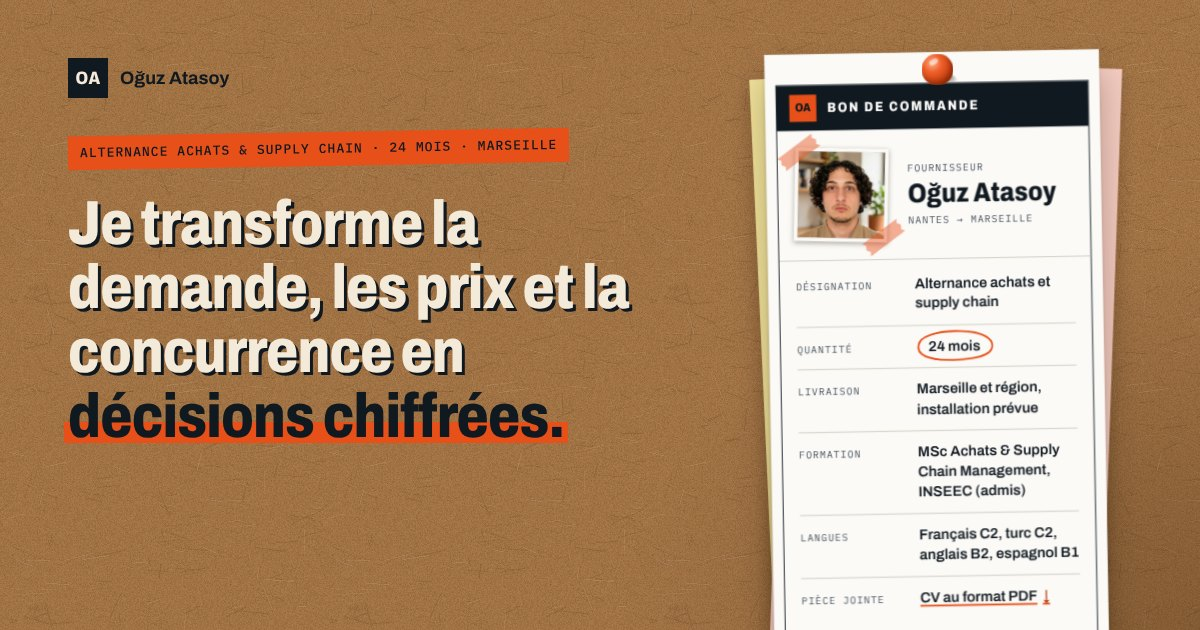
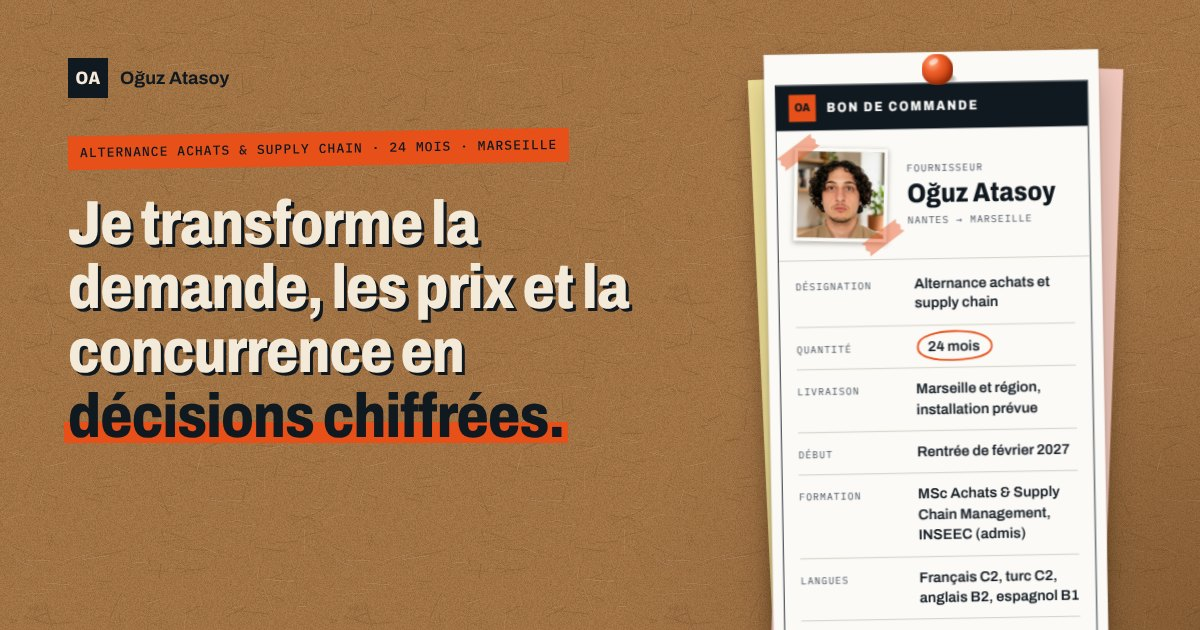
Bon de commande : rentrée février 2027, pièces jointes (CV et démo Revvvue), chiffres du hero en crème
- Nouvelle ligne « Début » (rentrée de février 2027) et ligne « Pièces jointes » avec lien vers la démo Revvvue
- Chiffres clés du hero en crème avec ombre encre pour plus de lisibilité
- Le doublon lu par les lecteurs d'écran n'est plus copié avec le texte

Claude-Session: https://claude.ai/code/session_01Jp4rFjE1dn3Db2iNxFXbt8

diff --git a/css/style.css b/css/style.css
@@ -36,7 +36,7 @@ a{color:inherit}
 .band :focus-visible,.topbar :focus-visible{outline-color:var(--beige)}
 section[id]{scroll-margin-top:72px}
 
-.sr{position:absolute!important;width:1px;height:1px;margin:-1px;padding:0;overflow:hidden;clip:rect(0 0 0 0);white-space:nowrap;border:0}
+.sr{-webkit-user-select:none;user-select:none;position:absolute!important;width:1px;height:1px;margin:-1px;padding:0;overflow:hidden;clip:rect(0 0 0 0);white-space:nowrap;border:0}
 .skip{position:absolute;left:12px;top:-64px;z-index:100;background:var(--ink);color:var(--beige);padding:10px 16px;font-weight:700;text-decoration:none}
 .skip:focus{top:12px}
 .defs{position:absolute;width:0;height:0;overflow:hidden}
@@ -92,10 +92,10 @@ section[id]{scroll-margin-top:72px}
 
 .lead{font-size:20px;line-height:1.5;color:var(--ink);max-width:560px;margin:0 0 32px}
 .cta{display:flex;gap:14px;flex-wrap:wrap;margin-bottom:44px}
-.facts{display:flex;gap:44px;flex-wrap:wrap;padding:24px 0 0;border-top:2px dashed var(--ink)}
+.facts{display:flex;gap:36px;flex-wrap:wrap;padding:24px 0 0;border-top:2px dashed var(--ink)}
 .facts li{display:flex;flex-direction:column}
-.facts .big{font-size:44px;font-weight:800;font-stretch:82%;line-height:1;margin-bottom:6px;font-variant-numeric:tabular-nums}
-.facts .sm{font-size:12px;color:var(--ink);letter-spacing:.04em}
+.facts .big{font-size:44px;font-weight:800;font-stretch:82%;line-height:1;margin-bottom:6px;font-variant-numeric:tabular-nums;color:var(--beige);text-shadow:.05em .05em 0 var(--ink)}
+.facts .sm{font-size:12px;font-weight:500;color:var(--beige);letter-spacing:.04em;text-shadow:1px 1px 0 var(--ink)}
 
 /* ---------- Bon de commande ---------- */
 .po-stack{position:relative;margin:20px 16px 34px;perspective:1300px;perspective-origin:50% 35%}
@@ -126,6 +126,8 @@ section[id]{scroll-margin-top:72px}
 .po-dl dd a{text-decoration:underline;text-decoration-color:var(--or);text-decoration-thickness:2px;text-underline-offset:3px}
 .po-dl dd a::after{content:"\2193" / "";margin-left:6px;color:var(--or-t)}
 .po-dl dd a:hover{background:rgba(232,80,26,.14)}
+.po-dl dd.att{display:flex;flex-direction:column;align-items:flex-start;gap:6px}
+.po-dl dd a.ext::after{content:"\2197" / "";margin-left:6px;color:var(--or-t)}
 .circ{position:relative;display:inline-block;padding:0 14px}
 .circ-s{position:absolute;left:-4px;top:-9px;width:calc(100% + 8px);height:calc(100% + 16px);overflow:visible}
 .po-stub{margin:0 -12px;padding:18px 22px 20px;border-top:2px dashed var(--ink);min-height:104px}

diff --git a/index.html b/index.html
@@ -4,7 +4,7 @@
 <meta charset="utf-8">
 <meta name="viewport" content="width=device-width, initial-scale=1">
 <title>Oğuz Atasoy · Alternance achats et supply chain</title>
-<meta name="description" content="Portfolio d’Oğuz Atasoy : trois ans d’alternance en hôtellerie, un outil d’analyse conçu avec l’IA, et une recherche d’alternance de 24 mois en achats et supply chain à Marseille.">
+<meta name="description" content="Portfolio d’Oğuz Atasoy : trois ans d’alternance en hôtellerie, un outil d’analyse conçu avec l’IA, et une recherche d’alternance de 24 mois en achats et supply chain à Marseille, rentrée de février 2027.">
 <meta name="theme-color" content="#A87949">
 <link rel="icon" href="img/favicon.svg" type="image/svg+xml">
 
@@ -115,9 +115,10 @@
 <div class="row" style="--i:0"><dt>Désignation</dt><dd>Alternance achats et supply chain</dd></div>
 <div class="row" style="--i:1"><dt>Quantité</dt><dd><span class="circ">24&nbsp;mois<svg class="circ-s" viewBox="0 0 120 44" preserveAspectRatio="none" aria-hidden="true" focusable="false"><path data-draw d="M9 25 C 5 9, 40 3, 68 4 C 101 5, 118 15, 113 27 C 108 39, 70 42, 40 40 C 16 38, 3 30, 11 17" fill="none" stroke="#E8501A" stroke-width="2.4" stroke-linecap="round"></path></svg></span></dd></div>
 <div class="row" style="--i:2"><dt>Livraison</dt><dd>Marseille et région, installation prévue</dd></div>
-<div class="row" style="--i:3"><dt>Formation</dt><dd>MSc Achats &amp; Supply Chain Management, INSEEC (admis)</dd></div>
-<div class="row" style="--i:4"><dt>Langues</dt><dd>Français C2, turc C2, anglais B2, espagnol B1</dd></div>
-<div class="row" style="--i:5"><dt>Pièce jointe</dt><dd><a href="CV_Oguz_Atasoy.pdf" download="CV_Oguz_Atasoy.pdf">CV au format PDF</a></dd></div>
+<div class="row" style="--i:3"><dt>Début</dt><dd>Rentrée de février 2027</dd></div>
+<div class="row" style="--i:4"><dt>Formation</dt><dd>MSc Achats &amp; Supply Chain Management, INSEEC (admis)</dd></div>
+<div class="row" style="--i:5"><dt>Langues</dt><dd>Français C2, turc C2, anglais B2, espagnol B1</dd></div>
+<div class="row" style="--i:6"><dt>Pièces jointes</dt><dd class="att"><a href="CV_Oguz_Atasoy.pdf" download="CV_Oguz_Atasoy.pdf">CV au format PDF</a><a class="ext" href="https://revvvue-demo.vercel.app" target="_blank" rel="noopener">Démo Revvvue<span class="sr"> (s’ouvre dans un nouvel onglet)</span></a></dd></div>
 </dl>
 </div>
 <div class="po-stub">
